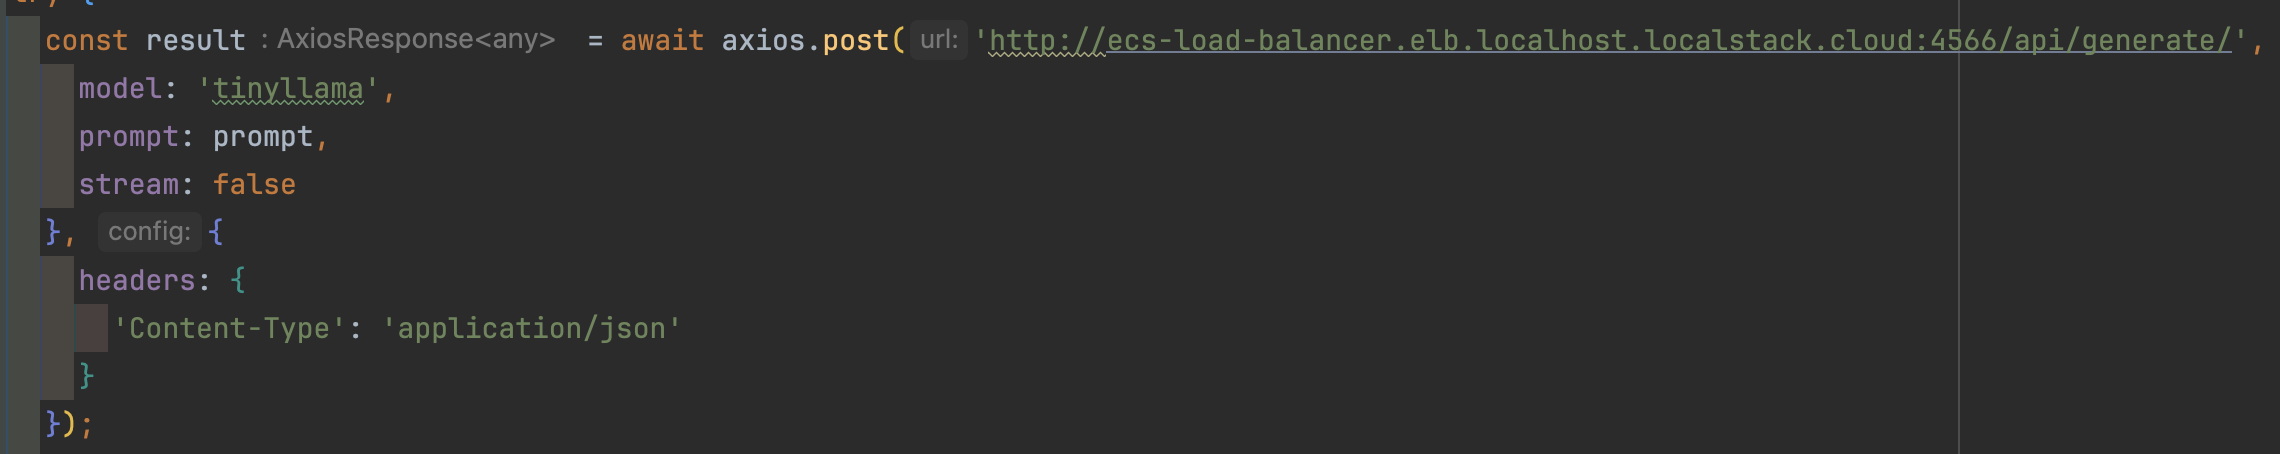
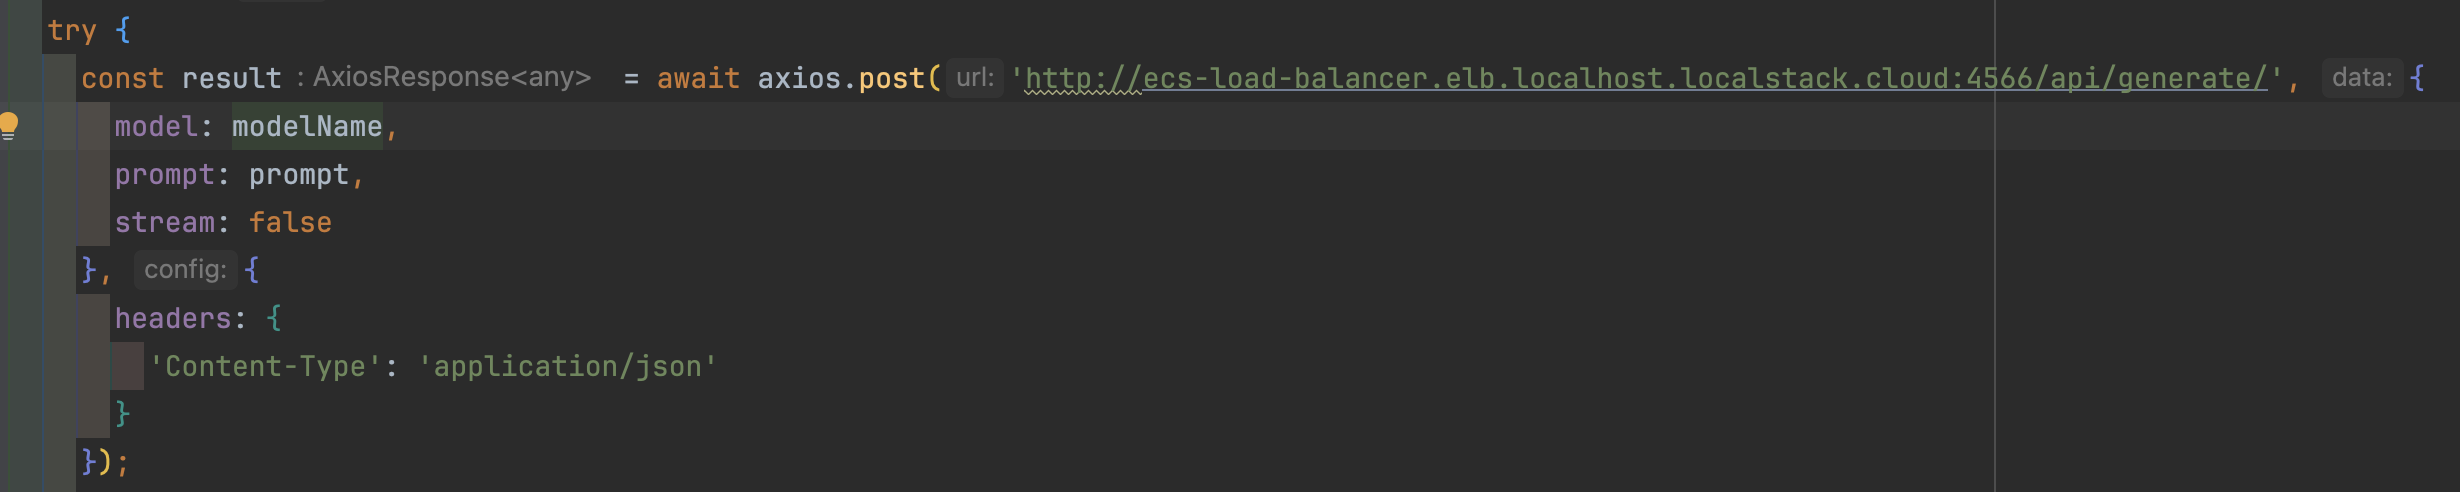
add README improvements

Changed region(s): [[0.0, 0.0, 0.9965, 1.0]]

diff --git a/localstack/frontend/chatbot/src/App.js b/localstack/frontend/chatbot/src/App.js
@@ -14,7 +14,7 @@ function App() {
     setLoading(true);
     try {
       const result = await axios.post('http://ecs-load-balancer.elb.localhost.localstack.cloud:4566/api/generate/', {
-        model: 'tinyllama',
+        model: modelName,
         prompt: prompt,
         stream: false
       }, {

diff --git a/README.md b/README.md
@@ -48,31 +48,31 @@ from the load balancer to the ECS service, which will run two tasks.
 
 ## Why Ollama & Tinyllama
 
-![Diagram](tinyllama.png)
+<img src="tinyllama.png" width="500" style="float: right"/>
 
+Ollama is an open-source platform that allows users to run large language models (LLMs) locally on their devices.
+In its essence, Ollama streamlines the tasks of downloading, installing, and utilizing a broad spectrum of LLMs, enabling users to discover
+their potential without requiring deep technical skills or dependence on cloud-based platforms.
 
-Using Ollama with LocalStack for local development of cloud applications offers several advantages:
+Both tools are designed for local development, so using Ollama with LocalStack for building cloud applications offers several advantages:
 
-- Complete Local Development Environment: Combining Ollama and LocalStack allows developers to run complex cloud applications 
-entirely on their local machines. Ollama can handle large language models locally, while LocalStack simulates AWS services, 
+- **Complete local development environment**: Combining Ollama and LocalStack allows developers to run complex cloud applications 
+entirely on their local machines. Ollama can handle large language models locally, while LocalStack handles the AWS services, 
 creating a comprehensive and integrated local development environment.
-- Cost Efficiency: Running applications locally avoids the costs associated with cloud resources during development and testing. 
+
+- **Cost efficiency**: Running applications locally avoids the costs associated with cloud resources during development and testing. 
 This is particularly useful when working with large language models that can be resource-intensive and expensive to run in the cloud.
 
-- Faster Iteration Cycles: Local development with Ollama and LocalStack allows for rapid prototyping and testing. Developers can
+- **Faster iteration cycles**: Local development with Ollama and LocalStack allows for rapid prototyping and testing. Developers can
 quickly make changes and see results without the delay of deploying to the cloud. This speeds up the development cycle significantly.
 
-- Consistent Development and Production Environments: By using LocalStack to emulate AWS services, developers can ensure that their
+- **Consistent development and production environments**: By using LocalStack to emulate AWS services, developers can ensure that their
 local development environment closely matches the production environment. This reduces the risk of environment-specific bugs and 
 improves the reliability of the application when deployed to the actual cloud.
 
 - Improved Testing Capabilities: LocalStack provides a robust platform for testing AWS services, including ECS and Fargate. 
 Running Ollama as a Fargate task on LocalStack allows for testing complex deployment scenarios and interactions with other AWS 
 services, ensuring that the application behaves as expected before deploying to the cloud.
-
-- Enhanced Machine Learning Workflows: Ollama’s capability to run large language models locally means that developers can integrate 
-advanced machine learning workflows into their applications. For example, they can use Ollama for natural language processing tasks, 
-and test these workflows in a simulated cloud environment provided by LocalStack.
 
 Tinyllama is compact yet powerful, making it an ideal choice for development and testing, particularly with applications demanding a restricted
 computation and memory footprint. Depending on your needs, you can replace it with a more specialized model.
@@ -90,17 +90,15 @@ npm install
 npm run build
 ```
 
-Notice the creation of the `build` folder. The `npm run build` command is used in React applications to create an optimized, 
-production-ready version of your app. This command is responsible for transpilation into a more widely supported format, bundling of resources,
-optimizations and minifications.
+Notice the creation of the `build` folder. The `npm run build` command is responsible for transpilation into a more widely supported format, resource bundling,
+optimizations and minifications, making the application production-ready.
 
-The build folder is essential for deployment because it contains the static assets needed to run your React app in a production environment. 
-These files will be uploaded to the S3 bucket.
+The `build` folder contains the static assets needed to run our app and will be uploaded to the S3 bucket.
 
 ### Creating the stack
 
 Now we can run the bash script containing AWS CLI commands to create the necessary resources. Let’s first have a look at some of the 
-commands in the script and identify some of the resources they create:
+commands in the script and identify the resources they create:
 
 Create the VPC:
 
@@ -136,7 +134,7 @@ awslocal ec2 authorize-security-group-ingress --group-id $SG_ID1 --protocol tcp 
 export SG_ID2=$(awslocal ec2 create-security-group --group-name ContainerFromLoadBalancerSG --description "Inbound traffic from the First Load Balancer" --vpc-id $VPC_ID | jq -r '.GroupId')
 awslocal ec2 authorize-security-group-ingress --group-id $SG_ID2 --protocol tcp --port 0-65535 --source-group $SG_ID1
 ```
-Creates security groups for the load balancer and containers, allowing necessary traffic.
+Creates security groups for the load balancer and the ECS service, allowing necessary traffic.
 
 ```bash
 export LB_ARN=$(awslocal elbv2 create-load-balancer --name ecs-load-balancer --subnets $SUBNET_ID1 $SUBNET_ID2 --security-groups $SG_ID1 --scheme internet-facing | jq -r '.LoadBalancers[0].LoadBalancerArn')
@@ -199,7 +197,7 @@ Creates an S3 bucket, configures it as a website, sets the bucket policy, and sy
 If you decide to use the AWS console to create all your resources, some of the complexity of these commands will be abstracted, and
 some even will be created as dependencies of other resources.
 
-You can run the full `commands.sh` script and watch the LocalStack logs for the resources to be created.
+You can run the full `commands.sh` script and watch the LocalStack logs for updated information on the resources, as they get created.
 
 ```bash
 bash commands.sh
@@ -211,13 +209,23 @@ Now that everything is deployed, you can go to the frontend application and try 
 `http://frontend-bucket.s3-website.us-east-1.localhost.localstack.cloud:4566/` and start typing your question. It takes a few seconds, and then
 the full answer appears:
 
-![Diagram](ollama-localstack.png)
+![Frontend display](ollama-localstack.png)
 
 If you look at the `App.js`, located in `frontend/chatbot/src`, you'll notice the POST call payload contains a field `stream: false`.
 For simplicity purpose we're going to receive our answer from the LLM "in bulk", rather than streamed, which could take a few seconds to
-receive it.
+receive, until it's completely generated.
 
-![Diagram](ollama-call.png)
+![Frontend Call](ollama-call.png)
+
+The backend call will be made to the **load balancer**, `http://ecs-load-balancer.elb.localhost.localstack.cloud:4566/api/generate/`, so we don't have to worry
+about how we access the task containers.
+
+
+## Running on AWS
+
+## Conclusions
+
+
 
 
 
